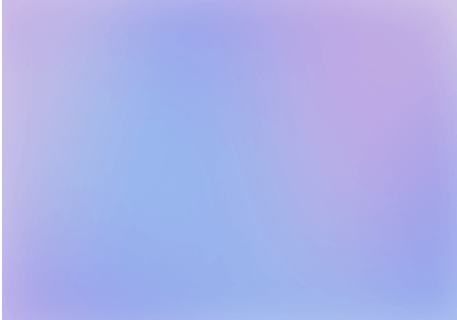
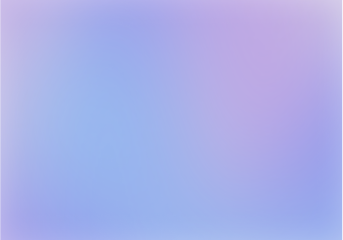
Add fixes

Changed region(s): [[0.9913, 0.0, 1.0, 1.0], [0.0, 0.0, 0.0292, 1.0]]

diff --git a/example/lib/stories/main_stories.dart b/example/lib/stories/main_stories.dart
@@ -349,43 +349,53 @@ List<Story> get allStories => [
       Story(
         name: 'Empty State Card',
         description: 'Demo page for Empty State Card',
-        builder: (context) =>
-          EmptyStateCardDemo(
-            imageProvider: NetworkImage(
-              context.knobs.text(
-                label: 'Container background image',
-                initial: 'https://picsum.photos/250?image=9',
-              ),
-            ),
-            title: context.knobs.text(label: 'Title', initial: '¿Quieres guardar la historia de tu familia?'),
-            description: context.knobs.text(label: 'Description', initial: 'Desde las risas en la cocina hasta la foto que siempre se repite en Navidad...'),
-            button: DotsMainButton(
-              size: DotsMainButtonSize.medium,
-              variant: DotsMainButtonVariant.main,
-              expand: false,
-              content: context.knobs.text(label: 'Button Text', initial: 'Crear álbum'),
-              onTap: () {},
+        builder: (context) => EmptyStateCardDemo(
+          imageProvider: NetworkImage(
+            context.knobs.text(
+              label: 'Container background image',
+              initial: 'https://picsum.photos/250?image=9',
             ),
           ),
+          title: context.knobs
+              .text(label: 'Title', initial: '¿Quieres guardar la historia de tu familia?'),
+          description: context.knobs.text(
+              label: 'Description',
+              initial:
+                  'Desde las risas en la cocina hasta la foto que siempre se repite en Navidad...'),
+          button: DotsMainButton(
+            size: DotsMainButtonSize.medium,
+            variant: DotsMainButtonVariant.main,
+            expand: false,
+            content: context.knobs.text(label: 'Button Text', initial: 'Crear álbum'),
+            onTap: () {},
+          ),
+        ),
       ),
       Story(
         name: 'PlanSelector',
         description: 'Demo page for PlanSelector',
-        builder: (context) => Padding(
+        builder: (context) => Container(
+          width: 130,
+          height: 1000,
           padding: const EdgeInsets.all(16.0),
-          child: DotsPlanSelector(
-            title: context.knobs.text(label: 'Title', initial: 'Premium'),
-            description:
-                context.knobs.text(label: 'Description', initial: 'Enjoy premium features!'),
-            variant: context.knobs.options<DotsPlanSelectorVariant>(
-              label: 'Variant',
-              initial: DotsPlanSelectorVariant.premium,
-              options: DotsPlanSelectorVariant.values
-                  .map((item) => Option(label: item.name, value: item))
-                  .toList(),
-            ),
-            selected: context.knobs.boolean(label: 'Selected', initial: false),
-            onTap: context.knobs.boolean(label: 'Has onTap', initial: true) ? () {} : null,
+          child: Column(
+            mainAxisAlignment: MainAxisAlignment.center,
+            children: [
+              DotsPlanSelector(
+                title: context.knobs.text(label: 'Title', initial: 'Premium'),
+                description:
+                    context.knobs.text(label: 'Description', initial: 'Enjoy premium features!'),
+                variant: context.knobs.options<DotsPlanSelectorVariant>(
+                  label: 'Variant',
+                  initial: DotsPlanSelectorVariant.premium,
+                  options: DotsPlanSelectorVariant.values
+                      .map((item) => Option(label: item.name, value: item))
+                      .toList(),
+                ),
+                selected: context.knobs.boolean(label: 'Selected', initial: false),
+                onTap: context.knobs.boolean(label: 'Has onTap', initial: true) ? () {} : null,
+              ),
+            ],
           ),
         ),
       ),

diff --git a/lib/src/components/navigation/home_top_bar.dart b/lib/src/components/navigation/home_top_bar.dart
@@ -1,10 +1,8 @@
 import 'package:flutter/material.dart';
 import 'package:dots_design_system/dots_design_system.dart';
-import 'package:dots_design_system/values/constants.dart';
 import 'dart:ui';
 
 class DotsHomeTopBar extends StatelessWidget implements PreferredSizeWidget {
-
   /// Title of the top bar.
   ///
   /// If not provided, the top bar will not display a title.
@@ -61,8 +59,7 @@ class DotsHomeTopBar extends StatelessWidget implements PreferredSizeWidget {
     this.rightIcon,
     this.secondRightIcon,
     this.children,
-  })  : 
-        child = null,
+  })  : child = null,
         showGradient = false,
         _bigStatusBar = true;
 
@@ -72,8 +69,7 @@ class DotsHomeTopBar extends StatelessWidget implements PreferredSizeWidget {
     this.showGradient = false,
     this.backgroundBlur = false,
     this.child,
-  })  : 
-        children = null,
+  })  : children = null,
         title = null,
         imgProfile = null,
         rightIcon = null,
@@ -131,20 +127,20 @@ class DotsHomeTopBar extends StatelessWidget implements PreferredSizeWidget {
                     ),
                   )
                 : Positioned.fill(
-                      child: backgroundBlur
+                    child: backgroundBlur
                         ? BackdropFilter(
                             filter: ImageFilter.blur(sigmaX: 50, sigmaY: 50),
-                          child: Container(
-                            color: theme.colors.bgContainerPrimary,
+                            child: Container(
+                              color: theme.colors.bgContainerPrimary,
+                            ),
+                          )
+                        : Container(
+                            color: Colors.transparent,
                           ),
-                        )
-                      : Container(
-                          color: Colors.transparent,
-                        ),
                   ),
             Column(
               children: [
-                  content,
+                content,
                 if (children != null) ...children!,
               ],
             ),
@@ -165,7 +161,7 @@ class TopBarContent extends StatelessWidget {
   final Widget? secondRightIcon;
 
   const TopBarContent({
-    Key? key,
+    super.key,
     required this.bigStatusBar,
     required this.preferredSize,
     this.title,
@@ -173,7 +169,7 @@ class TopBarContent extends StatelessWidget {
     this.imgProfile,
     this.rightIcon,
     this.secondRightIcon,
-  }) : super(key: key);
+  });
 
   @override
   Widget build(BuildContext context) {

diff --git a/lib/src/components/empty_state/empty_state_card.dart b/lib/src/components/empty_state/empty_state_card.dart
@@ -1,5 +1,4 @@
 import 'package:dots_design_system/dots_design_system.dart';
-import 'package:dots_design_system/extensions/media_query_data_extensions.dart';
 import 'package:flutter/material.dart';
 
 class DotsEmptyStateCard extends StatelessWidget {
@@ -26,14 +25,10 @@ class DotsEmptyStateCard extends StatelessWidget {
   @override
   Widget build(BuildContext context) {
     final theme = context.dotsTheme;
-    final screenWidth = MediaQuery.of(context).size.width;
-    final aspectRatio = MediaQuery.of(context).aspectRatio;
 
     return Container(
-      width: aspectRatio > 16
-        ? screenWidth * 0.8205
-        : screenWidth * 0.9,
-      padding: EdgeInsets.symmetric(horizontal: aspectRatio > 16 ? 20 : 12),
+      width: context.screenWidth * context.getByRatio(0.8205, 0.9),
+      padding: EdgeInsets.symmetric(horizontal: context.getByRatio(20, 12)),
       child: Column(
         mainAxisSize: MainAxisSize.min,
         mainAxisAlignment: MainAxisAlignment.start,
@@ -44,7 +39,7 @@ class DotsEmptyStateCard extends StatelessWidget {
           ),
           const SizedBox(height: 4),
           Padding(
-            padding:  EdgeInsets.symmetric(horizontal: aspectRatio > 16 ? 20 : 12),
+            padding: EdgeInsets.symmetric(horizontal: context.getByRatio(20, 12)),
             child: Text(
               title,
               style: theme.typo.secondary.title02H6.copyWith(
@@ -63,7 +58,7 @@ class DotsEmptyStateCard extends StatelessWidget {
             textAlign: TextAlign.center,
           ),
           if (button != null) ...[
-            SizedBox(height: aspectRatio > 16 ? 16 : 10),
+            SizedBox(height: context.getByRatio(16, 10)),
             button!,
           ],
         ],

diff --git a/lib/src/components/premium/dots_plan_selector.dart b/lib/src/components/premium/dots_plan_selector.dart
@@ -40,18 +40,18 @@ class DotsPlanSelector extends StatelessWidget {
     final textColor = selected ? theme.colors.labelAlwaysWhite : theme.colors.textPrimary;
     return Material(
       color: theme.colors.bgContainerSecondaryOnBackground,
-      borderRadius: BorderRadius.circular(16),
+      borderRadius: DotsBorderRadius.r16,
       child: Ink(
         decoration: BoxDecoration(
-          borderRadius: BorderRadius.circular(16),
-          image: selected ? DecorationImage(image: AssetImage(imagePath)) : null,
+          borderRadius: DotsBorderRadius.r16,
+          image: selected ? DecorationImage(image: AssetImage(imagePath), fit: BoxFit.cover) : null,
         ),
         child: InkWell(
-          borderRadius: BorderRadius.circular(16),
+          borderRadius: DotsBorderRadius.r16,
           onTap: onTap,
           child: Container(
-            width: 114,
-            height: 80,
+            width: double.infinity,
+            height: context.screenHeight * context.getByRatio(0.095, 0.111),
             padding: const EdgeInsets.all(4),
             child: Column(
               mainAxisAlignment: MainAxisAlignment.center,

diff --git a/lib/src/core/images_paths.dart b/lib/src/core/images_paths.dart
@@ -1,8 +1,9 @@
 import 'package:dots_design_system/dots_design_system.dart';
 
 class ImagesPaths {
-  static String bgBasic = 'packages/$dotsDesignSystemPackage/assets/images/bg_basic.png';
-  static String bgPremium = 'packages/$dotsDesignSystemPackage/assets/images/bg_premium.png';
-  static String bgPremiumPlus =
-      'packages/$dotsDesignSystemPackage/assets/images/bg_premium_plus.png';
+  static final String _images = 'packages/$dotsDesignSystemPackage/assets/images';
+
+  static final String bgBasic = '$_images/bg_basic.png';
+  static final String bgPremium = '$_images/bg_premium.png';
+  static final String bgPremiumPlus = '$_images/bg_premium_plus.png';
 }

diff --git a/lib/src/core/extensions/context_extensions.dart b/lib/src/core/extensions/context_extensions.dart
@@ -1,0 +1,24 @@
+import 'package:dots_design_system/dots_design_system.dart';
+import 'package:flutter/material.dart';
+
+extension ContextExtensions on BuildContext {
+  DotsTheme get dotsTheme {
+    final theme = Theme.of(this).extension<DotsTheme>();
+
+    if (theme == null) {
+      throw Exception('No Dots theme on context');
+    }
+    return theme;
+  }
+
+  double get screenWidth => MediaQuery.of(this).size.width;
+  double get screenHeight => MediaQuery.of(this).size.height;
+
+  T getByRatio<T>(T big, T small) {
+    if (MediaQuery.of(this).aspectRatio < kBigRatio) {
+      return small;
+    } else {
+      return big;
+    }
+  }
+}

diff --git a/lib/src/theme/dots_theme.dart b/lib/src/theme/dots_theme.dart
@@ -10,17 +10,6 @@ ThemeData dotsThemeDataDark = ThemeData(
   ],
 );
 
-extension DotsThemeOnContext on BuildContext {
-  DotsTheme get dotsTheme {
-    final theme = Theme.of(this).extension<DotsTheme>();
-
-    if (theme == null) {
-      throw Exception('No Dots theme on context');
-    }
-    return theme;
-  }
-}
-
 class DotsTheme extends ThemeExtension<DotsTheme> {
   final DotsColorsModel colors;
   final DotsStylesModel styles;

diff --git a/lib/src/components/navigation/top_bar.dart b/lib/src/components/navigation/top_bar.dart
@@ -1,6 +1,5 @@
 import 'package:dots_design_system/dots_design_system.dart';
 import 'package:flutter/material.dart';
-import 'package:dots_design_system/values/constants.dart';
 
 class DotsTopBar extends StatelessWidget implements PreferredSizeWidget {
   /// Title of the top bar.

diff --git a/lib/src/core/core_lib.dart b/lib/src/core/core_lib.dart
@@ -1,4 +1,4 @@
 export 'constants.dart';
-export 'extensions/color_extensions.dart';
+export 'extensions/extensions_lib.dart';
 export 'painters/linear_blur_painter.dart';
 export 'values/dots_border_radius.dart';

diff --git a/lib/src/core/constants.dart b/lib/src/core/constants.dart
@@ -1,1 +1,8 @@
 const String dotsDesignSystemPackage = 'dots_design_system';
+
+// General
+const kNormalHeight = 50.0;
+const kBigHeight = 106.0;
+
+// Ratios
+const kBigRatio = 16.0;

diff --git a/lib/src/core/extensions/extensions_lib.dart b/lib/src/core/extensions/extensions_lib.dart
@@ -1,0 +1,3 @@
+export 'color_extensions.dart';
+export 'context_extensions.dart';
+export 'media_query_data_extensions.dart';
